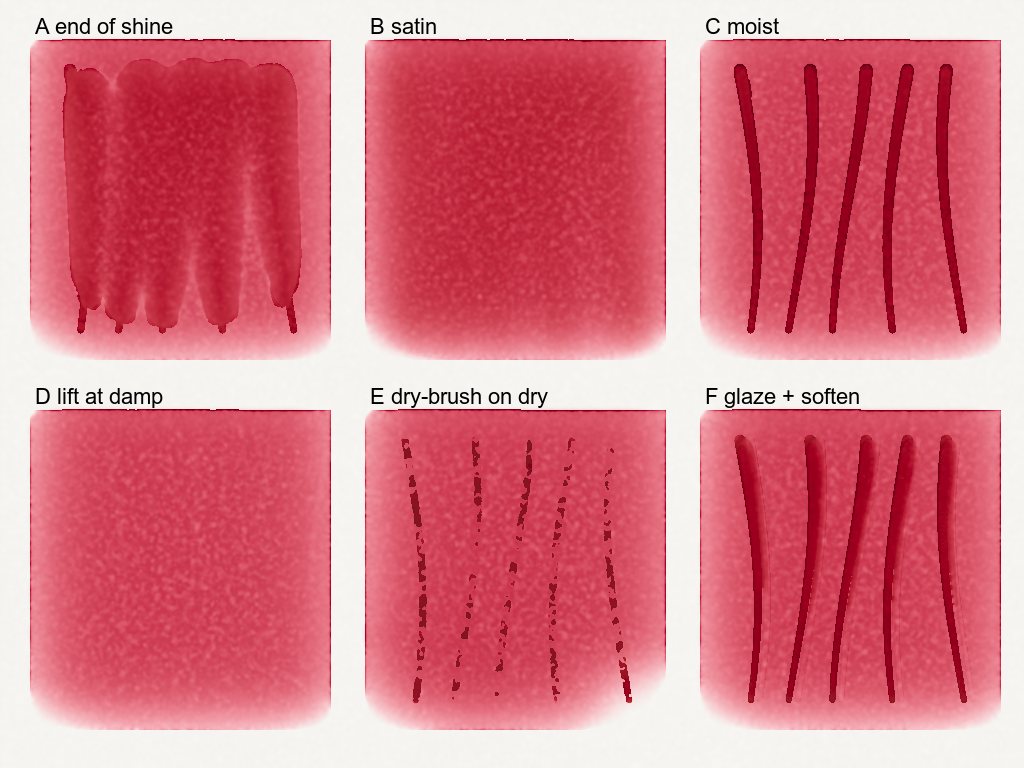
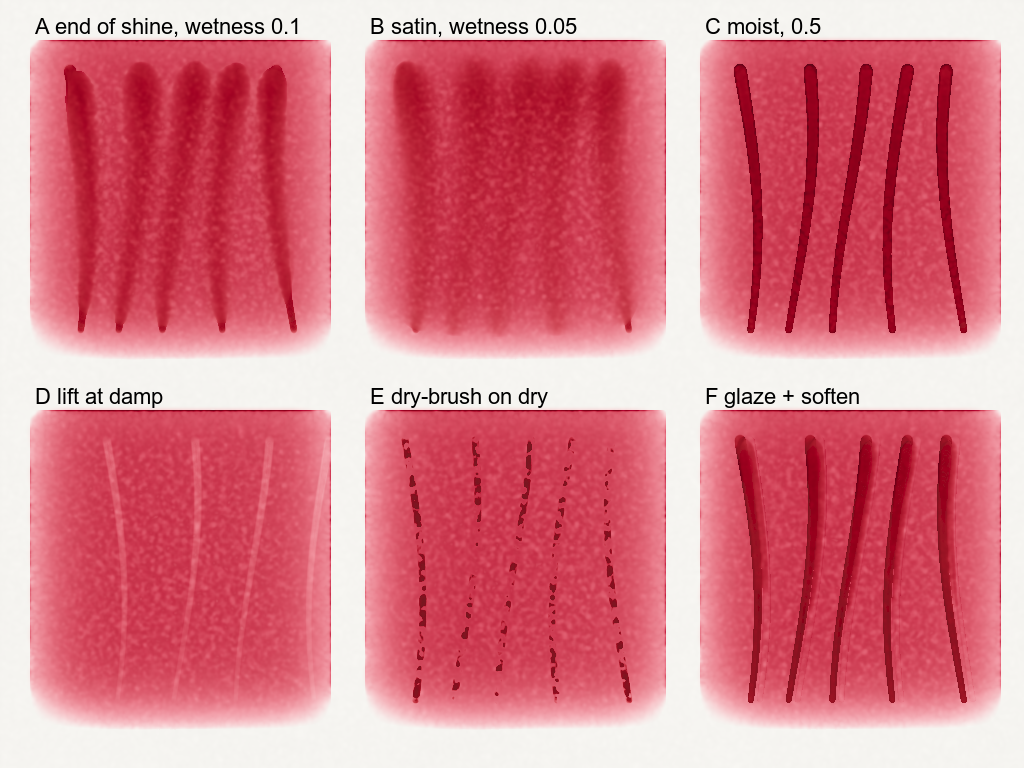
A dip brush can be dry (thick paint, a trace of water); damp paint lifts easily; stage lines from the streak swatches

diff --git a/src/main.js b/src/main.js
@@ -448,6 +448,7 @@ async function init() {
     frameF32[10] = (drying ? values.dryerStrength : 1) * values.dryingPace;
     frameF32[12] = state.simTime;
     frameF32[14] = brushLoad();
+    frameF32[27] = state.brushType === 'dip' ? DIP_EMPTY : values.emptyLevel;
     frameF32[15] = concMul();
     if (!brush) { frameF32[13] = values.brushRadius; frameF32[24] = 0; frameF32[26] = 0; }
     frameF32[25] = values.fixTooth;
@@ -513,8 +514,14 @@ async function init() {
   function concMul() {
     const w = brushLoad();
     if (state.brushType === 'water') return Math.min(state.pigStore / Math.max(w, 0.05), 4);
-    return 1 + values.thicken * (1 - w);
+    // A dip brush's water goes right down to nothing at Wetness 0 (so it can
+    // be drier than damp paper, and a thick dab stays put instead of
+    // blooming), but its paint doesn't: it's the same pigment in less
+    // water, thick paint, up to a paste.
+    const was = values.emptyLevel + (1 - values.emptyLevel) * w, now = DIP_EMPTY + (1 - DIP_EMPTY) * w;
+    return Math.min(10, (1 + values.thicken * (1 - w)) * was / now);
   }
+  const DIP_EMPTY = 0.03;   // a dry dip brush still holds a trace of water in its paste
 
   // Brush reservoir: the GPU tallies the water each frame's stamp actually
   // left on the paper (wet paper takes little, dry paper a lot); it comes
@@ -1326,7 +1333,10 @@ async function init() {
   //   damp    looks dry, paint doesn't flow into it; lifting, dry-brush
   //   dry     the gum sets; linework, glazes, finishing
   const STAGES = ['dry', 'damp', 'moist', 'satin', 'shiny', 'soaked'];
-  const stageOf = (w, s) => w >= 0.25 ? 'soaked' : w >= 0.08 ? 'shiny' : w > values.wEps ? 'satin'
+  // (Where the lines fall, from streak swatches: paint dropped into 0.08 of
+  // standing water spread and vanished, into 0.05 nearly, Handprint's shiny; into 0.03 it
+  // held with a soft edge, his satin.)
+  const stageOf = (w, s) => w >= 0.2 ? 'soaked' : w >= 0.04 ? 'shiny' : w > values.wEps ? 'satin'
     : s >= values.dampThreshold ? 'moist' : s >= 0.25 * values.dampThreshold ? 'damp' : 'dry';
   // What the brush would feel at (x, y), averaged over radius r: water,
   // paper dampness, its stage, and pigment amounts by name (wet and
@@ -1385,7 +1395,7 @@ async function init() {
       } else {
         // Wetter than the target stage: standing water above its bound, or
         // (for moist and drier) fibres above it.
-        const wMax = [values.wEps, values.wEps, values.wEps, 0.08, 0.25, Infinity][target];
+        const wMax = [values.wEps, values.wEps, values.wEps, 0.04, 0.2, Infinity][target];
         const sMax = [0.25 * values.dampThreshold, values.dampThreshold, Infinity, Infinity, Infinity, Infinity][target];
         let over = 0;
         for (let c = 0; c < N && over <= 200; c++) if (a[c * 4] > wMax || (a[c * 4] <= values.wEps && a[c * 4 + 3] >= sMax)) over++;

diff --git a/src/shaders.js b/src/shaders.js
@@ -44,7 +44,7 @@ struct Frame {
   touch: f32,         // how lightly the brush skims (0 = full contact), from the CPU
   fixTooth: f32,      // how much a fixative spray fills the paper's tooth
   startFresh: f32,   // 1 as a stroke begins, fading over its first few brush-widths
-  _t1: f32,
+  emptyW: f32,        // water a brush lays at Wetness 0, as a share of full (the water brush's reservoir never runs bone dry; a dip brush can be dry)
   strokeStart: f32,   // sim time this stroke touched down
   substeps: f32,      // sim steps this frame (the brush's segment is split among them)
   stepSec: f32,       // simulated seconds per step
@@ -681,7 +681,7 @@ fn transport(@builtin(workgroup_id) wid: vec3u, @builtin(local_invocation_id) li
     // spot there is only ever under the front of the brush), dried first,
     // and got an edge as the wetter paint ran back into it.
     let fresh = 1.0 + p.startWet * fr.startFresh;
-    let level = p.brushWater * mix(p.emptyLevel, 1.0, clamp(fr.load, 0.0, 1.0)) * fresh;
+    let level = p.brushWater * mix(fr.emptyW, 1.0, clamp(fr.load, 0.0, 1.0)) * fresh;
     // The brush drags wet paint the way a real one does: where it passes
     // over wet paint, the paint in the paper's water and in the brush's
     // hairs trade toward the same concentration. Where the paper's is
@@ -987,7 +987,12 @@ fn transport(@builtin(workgroup_id) wid: vec3u, @builtin(local_invocation_id) li
       if (!dOcc[j]) { continue; }
       let omega = max(p.staining * pig[dep.id[j]].phys.y, 1e-4);
       let fixed = select(1.0, p.fixLift, isFixed(dep.stamp[j], fixT));
-      dep.amt[j] *= 1.0 - clamp(liftK * p.liftDry * fixed / (omega * omega), 0.0, 1.0);
+      // On paper that hasn't dried yet (damp) the gum hasn't begun to set,
+      // so paint comes up far more easily: damp paint smudges if rubbed
+      // (Handprint's stages). (The deposit's stamp can't say: dried paint
+      // counts as unset until it's rewetted.)
+      let unset = select(1.0, max(p.liftUnset, 1.0), !dryNow && dep.stamp[j] >= 0.0);
+      dep.amt[j] *= 1.0 - clamp(liftK * p.liftDry * fixed * unset / (omega * omega), 0.0, 1.0);
     }
     // The stain layer lifts by its average liftability (its colour mix is
     // kept; an approximation, since what's in it has lost its identity).

diff --git a/paintings/streak-swatches.js b/paintings/streak-swatches.js
@@ -1,8 +1,9 @@
 // Streak swatches: six ways to put the Gala apple's streaks into its red
 // (notes/journal.md, the fourth apple). Each panel is the apple body's red
 // laid into satin-dampened paper, then streaks by one method:
-//   A  at the very end of the shine (surface water under 0.03)
-//   B  at satin              C  at moist
+//   A  at the very end of the shine (surface water under 0.03), a thirsty brush (Wetness 0.1)
+//   B  at satin, a nearly dry brush of thick paint (Wetness 0.05)
+//   C  at moist (Wetness 0.5)
 //   D  pale streaks lifted at damp (Lift tool)
 //   E  dry-brushed over the dried red (light, fast, low wetness)
 //   F  glazed on the dried red, one side softened with a damp brush
@@ -64,12 +65,12 @@ window.__paintDone = (async () => {
   log('B: base, streaks at satin');
   await base(P.B);
   log(`B skipped ${await S.skipTo('satin', { points: P.B.mid })}s to satin`);
-  await darkStreaks(P.B);
+  await darkStreaks(P.B, { load: 0.05, pig: 0.35 });
 
   log('A: base, streaks at the very end of the shine');
   await base(P.A);
   log(`A waited ${await untilWater(P.A.mid, 0.03)}s for the shine to thin`);
-  await darkStreaks(P.A);
+  await darkStreaks(P.A, { load: 0.1, pig: 0.35 });
 
   log('C: base, streaks at moist');
   await base(P.C);

diff --git a/src/knob-docs.js b/src/knob-docs.js
@@ -132,6 +132,7 @@ export const KNOB_DOCS = {
   blotRate: { tier: 'studio', doc: 'Blot: how much water and paint each press soaks up where a crease touches. More: cleaner, whiter blotted areas.' },
   liftWater: { tier: 'lab', doc: 'Lift: how much wet paint and water a thirsty brush soaks up. Lower Wetness is thirstier; at full Wetness it barely lifts.' },
   liftLeaves: { tier: 'lab', doc: 'Lift: water always left on wet paper after lifting, so the spot stays joined to the wash instead of drying to a hard-edged ring.' },
+  liftUnset: { tier: 'lab', doc: 'How much more easily Lift and blotting take paint whose gum has not set yet (paper still damp) than dried paint. Lifting while damp gives soft lights; once dry, the same lift barely moves it.' },
   liftDry: { tier: 'lab', doc: 'How easily scrubbing and blotting lift settled/dried paint, divided by each pigment\'s staining. More: dried non-staining paint lifts readily.' },
   liftStrength: { tier: 'studio', doc: 'Lift: how hard the lifting brush scrubs. More: removes wet paint and dried paint faster.' },
 

diff --git a/src/params.js b/src/params.js
@@ -131,6 +131,7 @@ export const PARAMS = [
   { key: 'blotRate',    v: 0.9,  min: 0, max: 1,   group: 'Brush', target: 'sim', label: 'blot: how much it soaks up per press' },
   { key: 'liftWater',   v: 0.35, min: 0, max: 1,   group: 'Brush', target: 'sim', label: 'lift: how much a thirsty brush takes (Wetness down = thirstier)' },
   { key: 'liftLeaves',  v: 0.04, min: 0, max: 0.3, group: 'Brush', target: 'sim', label: 'lifting leaves wet paper damp (water)' },
+  { key: 'liftUnset',     v: 8,    min: 1, max: 30,  group: 'Brush', target: 'sim', label: 'unset (damp) paint lifts ×' },
   { key: 'liftDry',       v: 0.05, min: 0, max: 2,   group: 'Brush', target: 'sim', label: 'lift and blot take settled paint' },
   { key: 'liftStrength',  v: 0.24,  min: 0, max: 1,   group: 'Brush', target: 'sim', label: 'lift strength' },
 

diff --git a/AGENTS.md b/AGENTS.md
@@ -293,6 +293,7 @@ All in `sim.values` by key. The page shows the studio ones always, the brush and
 | `blotRate` | 0.9 | blot: how much it soaks up per press | Blot: how much water and paint each press soaks up where a crease touches. More: cleaner, whiter blotted areas. |
 | `liftWater` | 0.35 | lift: how much a thirsty brush takes (Wetness down = thirstier) | Lift: how much wet paint and water a thirsty brush soaks up. Lower Wetness is thirstier; at full Wetness it barely lifts. |
 | `liftLeaves` | 0.04 | lifting leaves wet paper damp (water) | Lift: water always left on wet paper after lifting, so the spot stays joined to the wash instead of drying to a hard-edged ring. |
+| `liftUnset` | 8 | unset (damp) paint lifts × | How much more easily Lift and blotting take paint whose gum has not set yet (paper still damp) than dried paint. Lifting while damp gives soft lights; once dry, the same lift barely moves it. |
 | `liftDry` | 0.05 | lift and blot take settled paint | How easily scrubbing and blotting lift settled/dried paint, divided by each pigment's staining. More: dried non-staining paint lifts readily. |
 | `liftStrength` | 0.24 | lift strength | Lift: how hard the lifting brush scrubs. More: removes wet paint and dried paint faster. |
 
